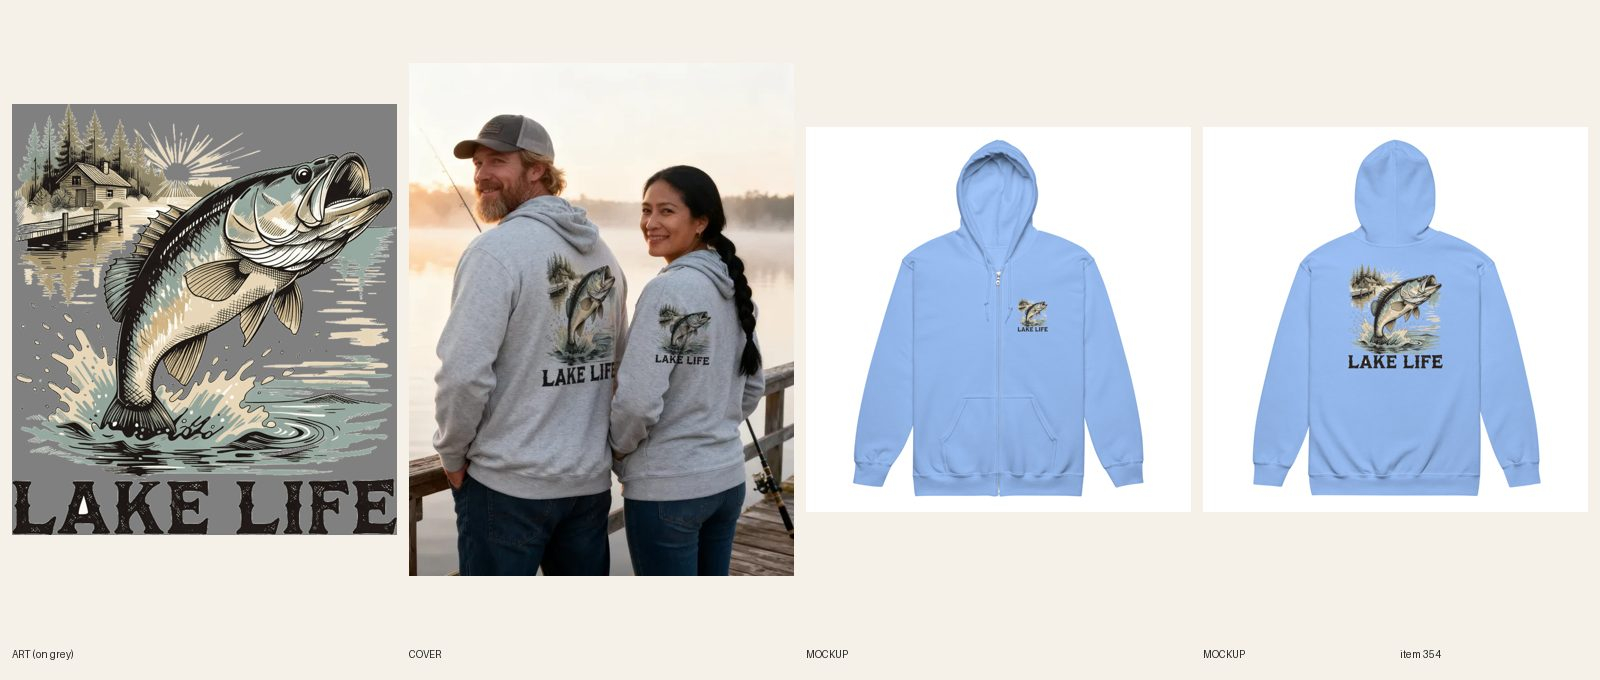
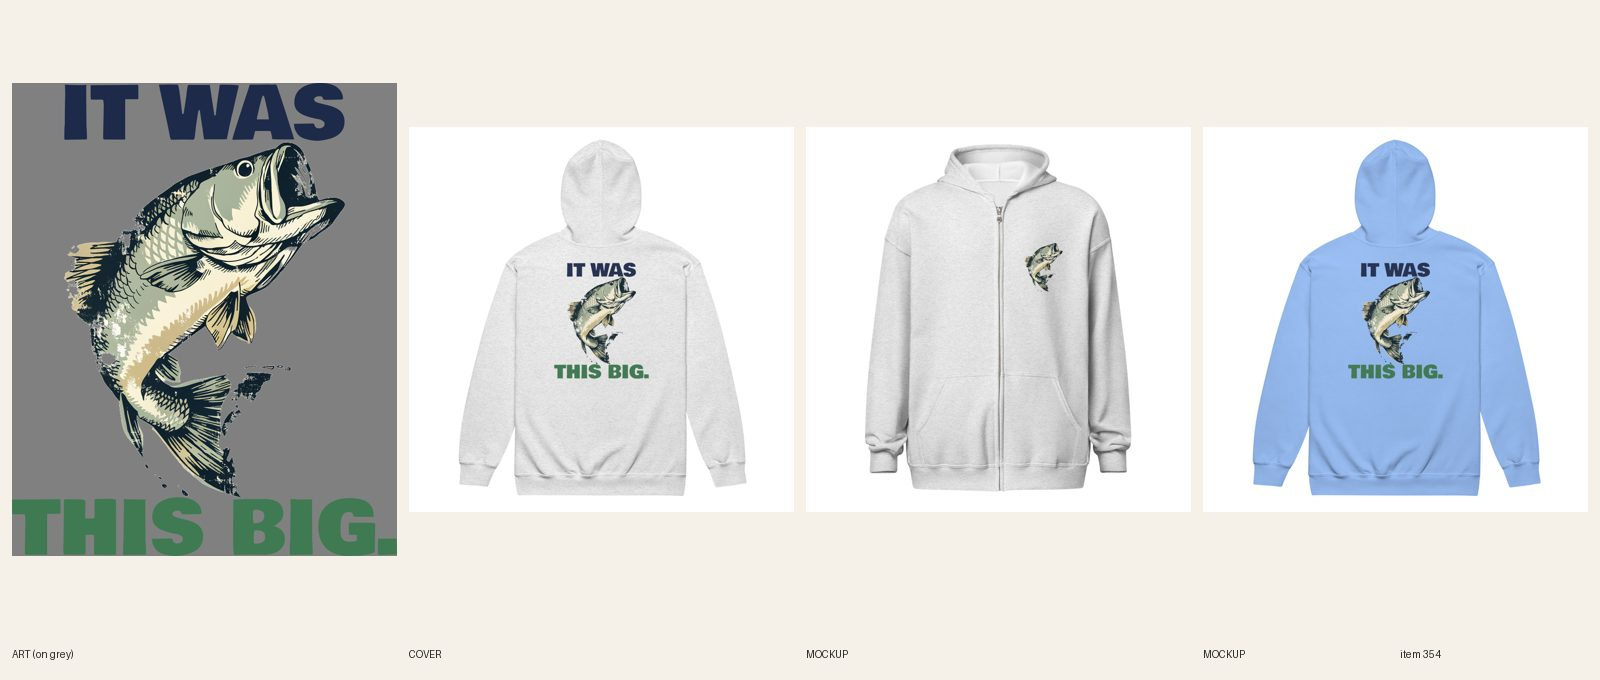
[B] review 354 It Was This Big fishing zip hoodie (line + type redo)

diff --git a/designs/b354/mkchest.py b/designs/b354/mkchest.py
@@ -1,0 +1,9 @@
+import subprocess,sys
+from PIL import Image, ImageFilter
+D='designs/b354/'
+subprocess.run([sys.executable,'scripts/print-prep.py',D+'art.png',D+'chest_t.png','--width','1500'],check=True,stdout=subprocess.DEVNULL)
+subprocess.run([sys.executable,'scripts/knock-white.py',D+'chest_t.png',D+'chest_t.png','3000'],check=True,stdout=subprocess.DEVNULL)
+a=Image.open(D+'chest_t.png').convert('RGBA'); a=a.crop(a.getbbox())
+r=6; m=a.split()[3].point(lambda v:255 if v>40 else 0).filter(ImageFilter.MaxFilter(2*r+1)).filter(ImageFilter.GaussianBlur(1))
+ring=Image.new('RGBA',a.size,'#f3e7cf'); ring.putalpha(m)
+p=Image.new('RGBA',(a.width+2*r,a.height+2*r),(0,0,0,0)); p.alpha_composite(ring,(r,r)); p.alpha_composite(a,(r,r)); p.save(D+'chest.png',dpi=(300,300)); print(p.size)

diff --git a/docs/pipeline/354-fishing-zip-hoodie-lake-life.md b/docs/pipeline/354-fishing-zip-hoodie-lake-life.md
@@ -1,4 +1,4 @@
-status: REDO
+status: REVIEW
 cover: fal
 lane: B
 type: twin
@@ -41,3 +41,4 @@ kd: 42
 - 2026-10-18 00:05 UTC builder [B]: REDO 1 done: Carolina Blue back mockup (designs/b/354-cb-back.jpg) uploaded as media 45759830032688 with R7.8 alt; the 6 Carolina Blue variants detached from the front photo and pointed at the back view (front photo stays in the gallery). Note: Ash variants point at the Ash front photo, not the back. Fal $0. Set REVIEW.
 - 2026-10-18 00:17 UTC director: LIVE. Sheet passes (both backs read LAKE LIFE after the composite; Carolina Blue back photo attached). ACTIVE + Online Store/Headless/Google & YouTube, audit PASS 0 warn.
 - 2026-10-18 17:22 UTC director: QUALITY RESET grade C (new line + type), REDO. The product stays ACTIVE (same handle, URL, title keyword). 1. Line (R3.12, quality-reset 'Lines'): "LAKE LIFE": Generic label, no joke at all. Write 5 candidates, keep the one a stranger laughs at in 3 seconds without backstory; kill lines that only describe the picture; if none of the 5 is funny, PARK it. 2. Quality reset type bar (docs/backlog/quality-reset.md, 'The new bar'): headline at least 90% of the art width, heavy, colors pulled from the art; second line at least 45% of the headline's height, never a thin script on a dark or mid garment; use the lettering as a shape (arch, stacked lockup, words breaking into the art), not a plain bar above and a script line below; no font used on more than 1 in 6 of the last 30 designs. 3. Keep the art if it carries the new line, else one new illustration (R4/R5). New print means a new cover per R6.10, copy line one rewritten for the new joke (R8.3), and a fresh review sheet (R7.7). While quality-reset.md says PAUSED, only lane A builds, and only the samples step 2 names.
+- 2026-10-20 12:20 UTC builder [B]: REDO 354 (C grade, line + type) done in place (stays ACTIVE, handle unchanged; title now "Unisex Fishing – It Was This Big Zip Hoodie"). 5 candidates: "IT WAS / THIS BIG."; "Lake Life" (old); "All The Gear, No Idea"; "The Fish Were Biting. Not Me."; "Bait And Switch". Kept IT WAS / THIS BIG. (the fish-story line; the bass is the proof; 3 seconds, anyone gets it). Old art was a full scene rectangle with a cabin and straight edges, so 2 Recraft calls ($0.08; try 1 came back as a circle with a black water patch, rejected; try 2 clean): a single leaping bass, no scene, no words. Bowlby One: IT WAS 62% of print width above, THIS BIG. 85% below (headline 99% of art width; second line the same size by design). Colors on the product are Ash and Carolina Blue (both light), so ONE dark-ink file for both (IT WAS navy, THIS BIG. green; light file logged: back file 1090186361). Left chest: a small bass copy with a thin cream halo (file 1090186316, 525 px). Zip layout BW 1650 BT 225. 12/12 synced: back 1090186361 and chest 1090186316 on every variant. Front + back mockups replaced in place (alts updated), title, SEO, copy, FAQs rewritten. Phone-size read OK on both backs. Cover: handle added to retired-covers.json. audit --handle PASS 0 warn. fal $0.08. Sheet docs/review/354.jpg. Note: the Lake Life tee and pullover hoodie still carry LAKE LIFE.

diff --git a/docs/intake-log.md b/docs/intake-log.md
@@ -5,6 +5,7 @@ RUNNING lane C since 2026-10-20 05:30 UTC
 RUNNING lane E since 2026-10-20 05:16 UTC
 2026-10-20 05:32 UTC — [E] Builder run: redid #388 Women's Christmas crewneck again (every calendar day box now filled: cream square, red X, so it reads booked; line kept SORRY, I'M BOOKED / TILL JANUARY.; Navy + Sand files, 12/12 synced). REVIEW. fal $0.
 2026-10-20 05:44 UTC — [A] Builder run: redid #319 Women's Christmas Tied Up for the Holidays tee (line+type: I'M THE GIFT. / NO RETURNS., same tartan bow art, Alfa Slab full width, file 1090185051, 30/30 relinked, 5 fronts replaced in place, copy updated, plain product shot). REVIEW. fal $0.
+2026-10-20 05:45 UTC — [B] Builder run: redid #354 Unisex Fishing zip hoodie (line + type: IT WAS / THIS BIG., new leaping-bass art, Bowlby One, Ash + Carolina Blue dark-ink file, 12/12 synced). REVIEW. fal $0.08.
 2026-10-20 05:16 UTC — [D] Director run (RESUMED). LIVE 6 (cap): #649 #205 #217 #219 #326 #356 (approved earlier and held; #649 set ACTIVE + published on Online Store, Headless, Google & YouTube; audit --handle PASS 0 warn each). Reviewed 20 new redo sheets side by side with 493 and 483: approved and held 10 (#382 #459 #499 #503 #514 #533 #563 #620 #622 #637); REDO 10: #280 #318 #380 #396 #513 #519 (joke line narrower than headline, R3.7.8, 10th hit in two runs: added builder card 7h, log both widths), #257 #258 (R3.13 template line), #448 #495 (R3.1 sound-alike puns). Inbox: nothing new since the Black Friday note (Sam already asked about the deal and set discount). READY: A 13, B 12, C 17, E 12, no new briefs needed. No Telegram (digest not due, nothing new for Sam). Held next, in order: #358 #650, then the 15 from 04:16, then the 10 above, then the 31 add-ons. Lock released.
 2026-10-20 05:24 UTC — [E] Builder run: redid #366 Women's Beach hoodie again (new line NOT CRABBY. / JUST OFF THE CLOCK., second line at full headline width, same crab art, Fraunces; Navy + Dust light file, 12/12 synced). REVIEW. fal $0.
 RUNNING director since 2026-10-20 05:13 UTC
